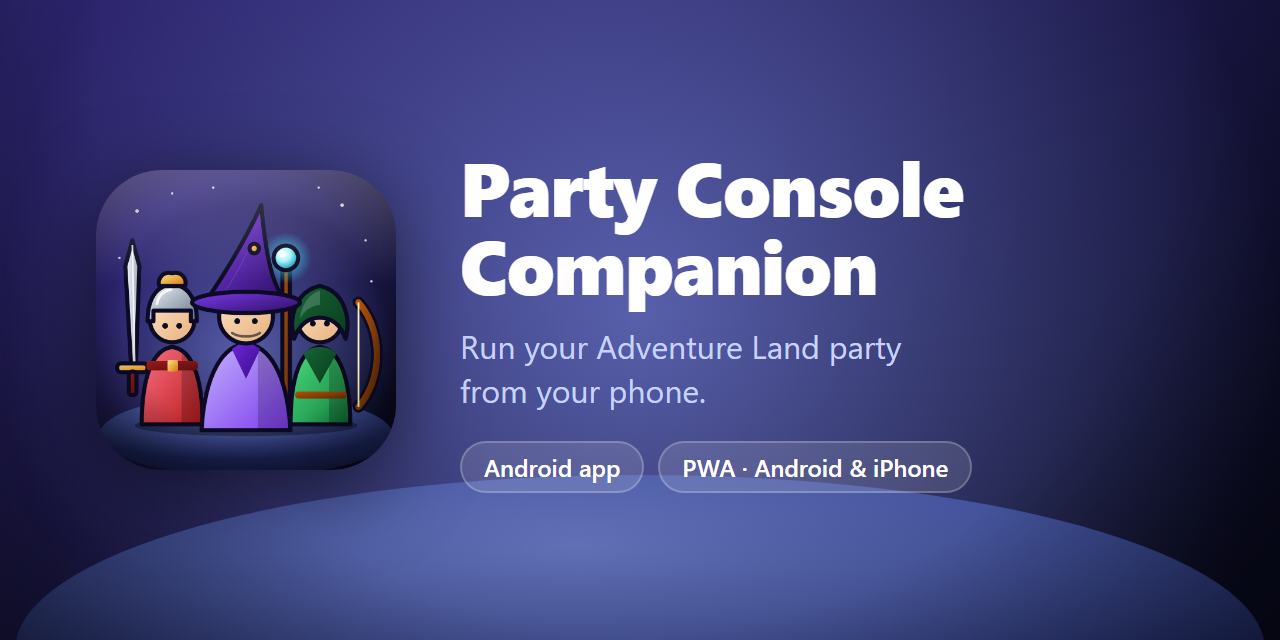
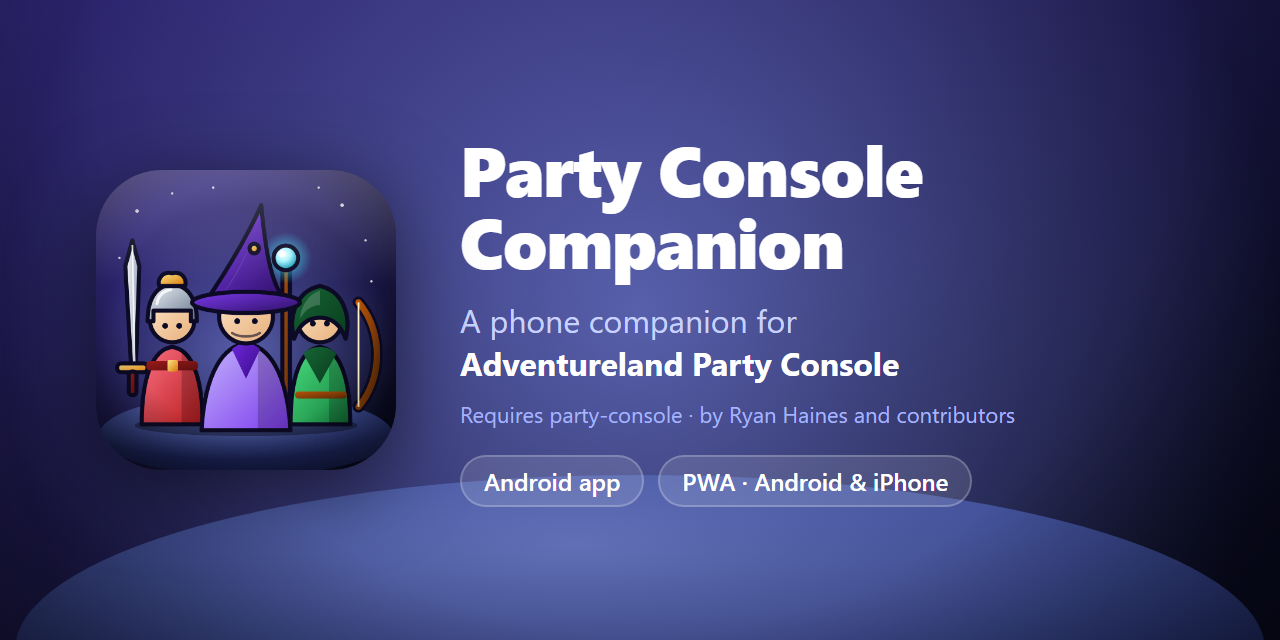
Credit Adventureland Party Console and state the dependency
Both apps are clients of Ryan Haines' Adventureland Party Console and adapt
parts of its dashboard, which is MIT-licensed. Add THIRD_PARTY_NOTICES.md
with its notice (plus credits for Crowns3bc's log filter categories and an
Adventure Land non-affiliation note), a "Requires" callout and Credits
section in the README, the requirement at the top of DEPLOYMENT.md and every
release page, an About card in both apps' Settings with the credit and the
license text, and the dependency on the social preview banner.

Changed region(s): [[0.3438, 0.2188, 0.7812, 0.8125]]

diff --git a/app/src/main/java/com/partyconsole/companion/ui/account/AboutSection.kt b/app/src/main/java/com/partyconsole/companion/ui/account/AboutSection.kt
@@ -1,0 +1,82 @@
+package com.partyconsole.companion.ui.account
+
+import android.content.Intent
+import android.net.Uri
+import androidx.compose.foundation.border
+import androidx.compose.foundation.layout.Arrangement
+import androidx.compose.foundation.layout.Column
+import androidx.compose.foundation.layout.fillMaxWidth
+import androidx.compose.foundation.layout.padding
+import androidx.compose.foundation.shape.RoundedCornerShape
+import androidx.compose.material3.MaterialTheme
+import androidx.compose.material3.Text
+import androidx.compose.material3.TextButton
+import androidx.compose.runtime.Composable
+import androidx.compose.runtime.getValue
+import androidx.compose.runtime.mutableStateOf
+import androidx.compose.runtime.saveable.rememberSaveable
+import androidx.compose.runtime.setValue
+import androidx.compose.ui.Modifier
+import androidx.compose.ui.platform.LocalContext
+import androidx.compose.ui.semantics.contentDescription
+import androidx.compose.ui.semantics.semantics
+import androidx.compose.ui.text.font.FontFamily
+import androidx.compose.ui.text.font.FontWeight
+import androidx.compose.ui.unit.dp
+
+private const val PARTY_CONSOLE = "https://github.com/Ryan-Haines/adventureland-party-console"
+
+/** party-console's MIT notice: parts of this app are adapted from its
+ *  dashboard, so the notice ships with the app (see THIRD_PARTY_NOTICES.md). */
+internal const val PARTY_CONSOLE_LICENSE = """MIT License
+
+Copyright (c) 2026 Adventure Land Party Console contributors
+
+Permission is hereby granted, free of charge, to any person obtaining a copy
+of this software and associated documentation files (the "Software"), to deal
+in the Software without restriction, including without limitation the rights
+to use, copy, modify, merge, publish, distribute, sublicense, and/or sell
+copies of the Software, and to permit persons to whom the Software is
+furnished to do so, subject to the following conditions:
+
+The above copyright notice and this permission notice shall be included in all
+copies or substantial portions of the Software.
+
+THE SOFTWARE IS PROVIDED "AS IS", WITHOUT WARRANTY OF ANY KIND, EXPRESS OR
+IMPLIED, INCLUDING BUT NOT LIMITED TO THE WARRANTIES OF MERCHANTABILITY,
+FITNESS FOR A PARTICULAR PURPOSE AND NONINFRINGEMENT. IN NO EVENT SHALL THE
+AUTHORS OR COPYRIGHT HOLDERS BE LIABLE FOR ANY CLAIM, DAMAGES OR OTHER
+LIABILITY, WHETHER IN AN ACTION OF CONTRACT, TORT OR OTHERWISE, ARISING FROM,
+OUT OF OR IN CONNECTION WITH THE SOFTWARE OR THE USE OR OTHER DEALINGS IN THE
+SOFTWARE."""
+
+/** Credits party-console (which this app needs) and ships its license. */
+@Composable
+fun AboutSection() {
+    val context = LocalContext.current
+    var showLicense by rememberSaveable { mutableStateOf(false) }
+    Column(
+        modifier = Modifier.fillMaxWidth().border(1.dp, MaterialTheme.colorScheme.outlineVariant, RoundedCornerShape(6.dp)).padding(16.dp).semantics { contentDescription = "About" },
+        verticalArrangement = Arrangement.spacedBy(6.dp),
+    ) {
+        Text("About", fontWeight = FontWeight.SemiBold, style = MaterialTheme.typography.bodySmall)
+        Text(
+            "Party Console Companion is a phone companion for Adventureland Party Console by Ryan Haines and contributors. " +
+                "It needs a running party-console: this app connects to it and does nothing on its own.",
+            style = MaterialTheme.typography.bodySmall,
+        )
+        TextButton(onClick = { context.startActivity(Intent(Intent.ACTION_VIEW, Uri.parse(PARTY_CONSOLE)).addFlags(Intent.FLAG_ACTIVITY_NEW_TASK)) }) {
+            Text("Adventureland Party Console on GitHub")
+        }
+        Text(
+            "Parts of this app are adapted from party-console's dashboard under its MIT License. Game log filter categories follow " +
+                "Crowns3bc's Game Log Filter. Not affiliated with or endorsed by Adventure Land; game art and data are loaded from the game.",
+            style = MaterialTheme.typography.labelSmall,
+            color = MaterialTheme.colorScheme.onSurfaceVariant,
+        )
+        TextButton(onClick = { showLicense = !showLicense }) { Text(if (showLicense) "Hide party-console license" else "Show party-console license") }
+        if (showLicense) {
+            Text(PARTY_CONSOLE_LICENSE, fontFamily = FontFamily.Monospace, style = MaterialTheme.typography.labelSmall, color = MaterialTheme.colorScheme.onSurfaceVariant)
+        }
+    }
+}

diff --git a/web/src/screens/account/settings/About.tsx b/web/src/screens/account/settings/About.tsx
@@ -1,0 +1,51 @@
+import { useState } from 'react'
+
+const PARTY_CONSOLE = 'https://github.com/Ryan-Haines/adventureland-party-console'
+
+/** party-console's MIT notice: parts of this app are adapted from its
+ *  dashboard, so the notice ships with the app (see THIRD_PARTY_NOTICES.md). */
+export const PARTY_CONSOLE_LICENSE = `MIT License
+
+Copyright (c) 2026 Adventure Land Party Console contributors
+
+Permission is hereby granted, free of charge, to any person obtaining a copy
+of this software and associated documentation files (the "Software"), to deal
+in the Software without restriction, including without limitation the rights
+to use, copy, modify, merge, publish, distribute, sublicense, and/or sell
+copies of the Software, and to permit persons to whom the Software is
+furnished to do so, subject to the following conditions:
+
+The above copyright notice and this permission notice shall be included in all
+copies or substantial portions of the Software.
+
+THE SOFTWARE IS PROVIDED "AS IS", WITHOUT WARRANTY OF ANY KIND, EXPRESS OR
+IMPLIED, INCLUDING BUT NOT LIMITED TO THE WARRANTIES OF MERCHANTABILITY,
+FITNESS FOR A PARTICULAR PURPOSE AND NONINFRINGEMENT. IN NO EVENT SHALL THE
+AUTHORS OR COPYRIGHT HOLDERS BE LIABLE FOR ANY CLAIM, DAMAGES OR OTHER
+LIABILITY, WHETHER IN AN ACTION OF CONTRACT, TORT OR OTHERWISE, ARISING FROM,
+OUT OF OR IN CONNECTION WITH THE SOFTWARE OR THE USE OR OTHER DEALINGS IN THE
+SOFTWARE.`
+
+export function About() {
+  const [showLicense, setShowLicense] = useState(false)
+  return (
+    <section aria-label="About" className="space-y-2 rounded-md border border-border bg-card p-4 text-sm">
+      <h3 className="font-semibold">About</h3>
+      <p>
+        Party Console Companion is a phone companion for{' '}
+        <a href={PARTY_CONSOLE} target="_blank" rel="noreferrer" className="underline">
+          Adventureland Party Console
+        </a>{' '}
+        by Ryan Haines and contributors. It needs a running party-console: this app connects to it and does nothing on its own.
+      </p>
+      <p className="text-xs text-muted-foreground">
+        Parts of this app are adapted from party-console's dashboard under its MIT License. Game log filter categories follow Crowns3bc's Game Log Filter. Not
+        affiliated with or endorsed by Adventure Land; game art and data are loaded from the game.
+      </p>
+      <button type="button" className="text-xs underline" aria-expanded={showLicense} onClick={() => setShowLicense((value) => !value)}>
+        {showLicense ? 'Hide party-console license' : 'Show party-console license'}
+      </button>
+      {showLicense && <pre className="max-h-64 overflow-auto whitespace-pre-wrap rounded border border-border p-2 font-mono text-[10px] text-muted-foreground">{PARTY_CONSOLE_LICENSE}</pre>}
+    </section>
+  )
+}

diff --git a/web/e2e/account-screens-more.spec.ts b/web/e2e/account-screens-more.spec.ts
@@ -188,3 +188,18 @@ test('Settings: switching realm updates immediately (no stale data until the nex
 
   await expect(page.getByText('Current: US II · Home: US I')).toBeVisible()
 })
+
+test('Settings: About credits party-console and shows its license', async ({ page }) => {
+  // Failure mode: the app shipped party-console-derived code without its
+  // MIT notice or any credit.
+  const server = new MockPartyServer()
+  server.paired = true
+  server.addCharacter({ name: 'Merchantina', ctype: 'merchant', level: 30 })
+  await server.install(page)
+  await page.goto('/settings')
+  const about = page.getByRole('region', { name: 'About' })
+  await expect(about.getByRole('link', { name: 'Adventureland Party Console' })).toHaveAttribute('href', 'https://github.com/Ryan-Haines/adventureland-party-console')
+  await expect(about.getByText(/by Ryan Haines and contributors/)).toBeVisible()
+  await about.getByRole('button', { name: 'Show party-console license' }).click()
+  await expect(about.getByText(/Copyright \(c\) 2026 Adventure Land Party Console contributors/)).toBeVisible()
+})

diff --git a/web/src/screens/account/SettingsScreen.tsx b/web/src/screens/account/SettingsScreen.tsx
@@ -7,6 +7,7 @@ import { ConsoleUpdateSettings, HostingSettings } from './settings/ConsoleSettin
 import { AccountMembers } from './settings/AccountMembers'
 import { NotificationsSection } from './settings/NotificationsSection'
 import { PwaUpdateSettings } from './settings/PwaUpdates'
+import { About } from './settings/About'
 import { CreateCharacterSheet } from '@/screens/roster/CreateCharacterSheet'
 import { Copy, Eye, EyeOff } from 'lucide-react'
 import { usePartyApi, useDynamicState, useRefreshDynamicStateNow, useConfigLoaded, useAlDataAuthPending, useAlDataAuthStatus } from '@/data/PartyDataProvider'
@@ -118,6 +119,8 @@ export function SettingsScreen() {
         </div>
 
         <PwaUpdateSettings />
+
+        <About />
 
         {dynamicState.steamSwitch?.phase === 'failed' && (
           // Offered while a Steam handoff has failed.

diff --git a/app/src/test/java/com/partyconsole/companion/update/AppUpdatesTest.kt b/app/src/test/java/com/partyconsole/companion/update/AppUpdatesTest.kt
@@ -71,6 +71,16 @@ class AppUpdatesTest {
     }
 
     @Test
+    fun aboutCreditsPartyConsoleAndShowsItsLicense() {
+        // Failure mode: the app shipped party-console-derived code without its
+        // MIT notice or any credit.
+        compose.setContent { com.partyconsole.companion.ui.account.AboutSection() }
+        compose.onNodeWithText("by Ryan Haines and contributors", substring = true).assertExists()
+        compose.onNodeWithText("Show party-console license").performClick()
+        compose.onNodeWithText("Copyright (c) 2026 Adventure Land Party Console contributors", substring = true).assertExists()
+    }
+
+    @Test
     fun comparesStableVersionsOnly() {
         assertTrue(AppUpdates.newer("1.10.0", "1.9.9"))
         assertFalse(AppUpdates.newer("1.0.0", "1.0.0"))

diff --git a/app/src/main/java/com/partyconsole/companion/ui/account/SettingsScreen.kt b/app/src/main/java/com/partyconsole/companion/ui/account/SettingsScreen.kt
@@ -144,6 +144,7 @@ fun SettingsScreen(viewModel: PartyViewModel, onBack: () -> Unit, onOpenMail: ()
             ConsoleUpdateSettings(viewModel)
             NotificationsSection(viewModel)
             AppUpdateSection()
+            AboutSection()
             SettingsCard("App connection") {
                 Text("App connection", fontWeight = FontWeight.Medium, style = MaterialTheme.typography.bodySmall)
                 Text("Where this app fetches party data from. Changing it forgets this server and its pairing.", style = MaterialTheme.typography.labelSmall, color = MaterialTheme.colorScheme.onSurfaceVariant)

diff --git a/THIRD_PARTY_NOTICES.md b/THIRD_PARTY_NOTICES.md
@@ -1,0 +1,60 @@
+# Third-party notices
+
+Party Console Companion's own code is distributed under the [MIT License](LICENSE).
+It builds on the following work.
+
+## Adventureland Party Console
+
+Party Console Companion is a companion to
+[Adventureland Party Console](https://github.com/Ryan-Haines/adventureland-party-console)
+by Ryan Haines and contributors. It needs a running party-console to work: the
+Android app and the PWA are clients of party-console's API and do nothing on
+their own.
+
+Parts of both apps are adapted from party-console's dashboard
+(`dashboard/features/party/` and related runtime code) so they behave the same
+way: the live-update protocol, item and upgrade formulas, automatic-rule keys,
+log filters, labels and similar client-side logic. Those portions are used under
+party-console's MIT License:
+
+```
+MIT License
+
+Copyright (c) 2026 Adventure Land Party Console contributors
+
+Permission is hereby granted, free of charge, to any person obtaining a copy
+of this software and associated documentation files (the "Software"), to deal
+in the Software without restriction, including without limitation the rights
+to use, copy, modify, merge, publish, distribute, sublicense, and/or sell
+copies of the Software, and to permit persons to whom the Software is
+furnished to do so, subject to the following conditions:
+
+The above copyright notice and this permission notice shall be included in all
+copies or substantial portions of the Software.
+
+THE SOFTWARE IS PROVIDED "AS IS", WITHOUT WARRANTY OF ANY KIND, EXPRESS OR
+IMPLIED, INCLUDING BUT NOT LIMITED TO THE WARRANTIES OF MERCHANTABILITY,
+FITNESS FOR A PARTICULAR PURPOSE AND NONINFRINGEMENT. IN NO EVENT SHALL THE
+AUTHORS OR COPYRIGHT HOLDERS BE LIABLE FOR ANY CLAIM, DAMAGES OR OTHER
+LIABILITY, WHETHER IN AN ACTION OF CONTRACT, TORT OR OTHERWISE, ARISING FROM,
+OUT OF OR IN CONNECTION WITH THE SOFTWARE OR THE USE OR OTHER DEALINGS IN THE
+SOFTWARE.
+```
+
+## Game log filter categories
+
+The log filter categories follow Crowns3bc's
+[Game Log Filter](https://github.com/Crowns3bc/AdventureLand/blob/main/Gui/Game%20Log%20Filter.js),
+as party-console's do.
+
+## Adventure Land
+
+[Adventure Land](https://adventure.land) is a game by Kaan Soral. This project is
+not affiliated with or endorsed by Adventure Land. Game names, item and monster
+art and game data shown in the apps are loaded at runtime from the game and your
+party-console; they are not part of this repository.
+
+## Dependencies
+
+Libraries used by the apps (npm and Gradle dependencies) keep their own licenses,
+listed in `web/package-lock.json` and `app/build.gradle.kts`.

diff --git a/README.md b/README.md
@@ -4,9 +4,13 @@
 
 [![Download latest release](https://img.shields.io/github/v/release/Icelocked/adventure-land-mobile-party-console?label=Download&style=for-the-badge)](https://github.com/Icelocked/adventure-land-mobile-party-console/releases/latest)
 
+> **Requires [Adventureland Party Console](https://github.com/Ryan-Haines/adventureland-party-console)**
+> by Ryan Haines and contributors. This is a companion to it: install and run
+> party-console first; these apps connect to it and do nothing on their own.
+
 A phone companion for
-[Ryan-Haines/adventureland-party-console](https://github.com/Ryan-Haines/adventureland-party-console):
-a native **Android app**, and a self-hosted **PWA** that also works on
+[Adventureland Party Console](https://github.com/Ryan-Haines/adventureland-party-console):
+a native **Android app**, and a self-hosted **PWA** that works on Android and
 iPhone. Both talk to the same API as party-console's own web dashboard
 (`/party-api/*`, with `/party-api/dashboard-stream` for live updates). They
 don't modify party-console; install either one next to your existing setup.
@@ -169,6 +173,19 @@ start from the matching code in party-console's
 `dashboard/features/party/` rather than guessing field names or command
 shapes.
 
+## Credits
+
+- [Adventureland Party Console](https://github.com/Ryan-Haines/adventureland-party-console)
+  by Ryan Haines and contributors, which these apps are built for. Parts of both
+  apps are adapted from its dashboard under its MIT License.
+- [Crowns3bc](https://github.com/Crowns3bc/AdventureLand) for the game log
+  filter categories.
+- [Adventure Land](https://adventure.land) by Kaan Soral. Not affiliated with or
+  endorsed by Adventure Land.
+
+Full notices: [THIRD_PARTY_NOTICES.md](THIRD_PARTY_NOTICES.md).
+
 ## License
 
-[MIT](LICENSE)
+[MIT](LICENSE). Portions adapted from Adventureland Party Console remain under its
+MIT License; see [THIRD_PARTY_NOTICES.md](THIRD_PARTY_NOTICES.md).

diff --git a/.github/release-intro.md b/.github/release-intro.md
@@ -1,9 +1,13 @@
 <img src="https://raw.githubusercontent.com/Icelocked/adventure-land-mobile-party-console/{{TAG}}/web/public/icons/icon-192.png" width="96" height="96" align="right" alt="Party Console Companion icon">
 
+**Requires [Adventureland Party Console](https://github.com/Ryan-Haines/adventureland-party-console)** by Ryan Haines and contributors. These apps are companions to it: set up party-console first, then connect from your phone.
+
 ## Which one do I want?
 
 - **Android phone:** download the `.apk` below and open it on your phone. After that, the app checks for updates itself (Settings → App updates), or you can follow releases with [Obtainium](https://github.com/ImranR98/Obtainium).
 - **Any phone (Android or iPhone) or browser:** install the PWA next to your party-console with Docker. It's one service in your `compose.yaml`, using the image `ghcr.io/icelocked/party-console-pwa`. See the [PWA install guide](https://github.com/Icelocked/adventure-land-mobile-party-console/blob/main/DEPLOYMENT.md#4-pwa-self-hosted-next-to-party-console). Once it's installed, it can update itself from Settings.
 - **The `.zip`** holds the PWA's web files for people hosting it some other way. Most people want the Docker install instead.
+
+Credits and licenses: [THIRD_PARTY_NOTICES.md](https://github.com/Icelocked/adventure-land-mobile-party-console/blob/{{TAG}}/THIRD_PARTY_NOTICES.md).
 
 New to this? Start with the [README](https://github.com/Icelocked/adventure-land-mobile-party-console#install), which covers getting your phone to your PC with Tailscale.

diff --git a/DEPLOYMENT.md b/DEPLOYMENT.md
@@ -1,9 +1,13 @@
 # Installing Party Console Companion
 
+**Requires [Adventureland Party Console](https://github.com/Ryan-Haines/adventureland-party-console)**
+by Ryan Haines and contributors. The companion apps are clients of it and do
+nothing on their own.
+
 This guide gets the companion onto your phone: the Android app, the PWA, or
 both. It assumes party-console already runs on your PC and its dashboard
-works in a browser there. Installing party-console itself is covered by
-[Ryan-Haines/adventureland-party-console](https://github.com/Ryan-Haines/adventureland-party-console).
+works in a browser there; installing party-console itself is covered by its
+own README.
 
 The tested setup is party-console on a home PC, reached from the phone
 through [Tailscale](https://tailscale.com).
